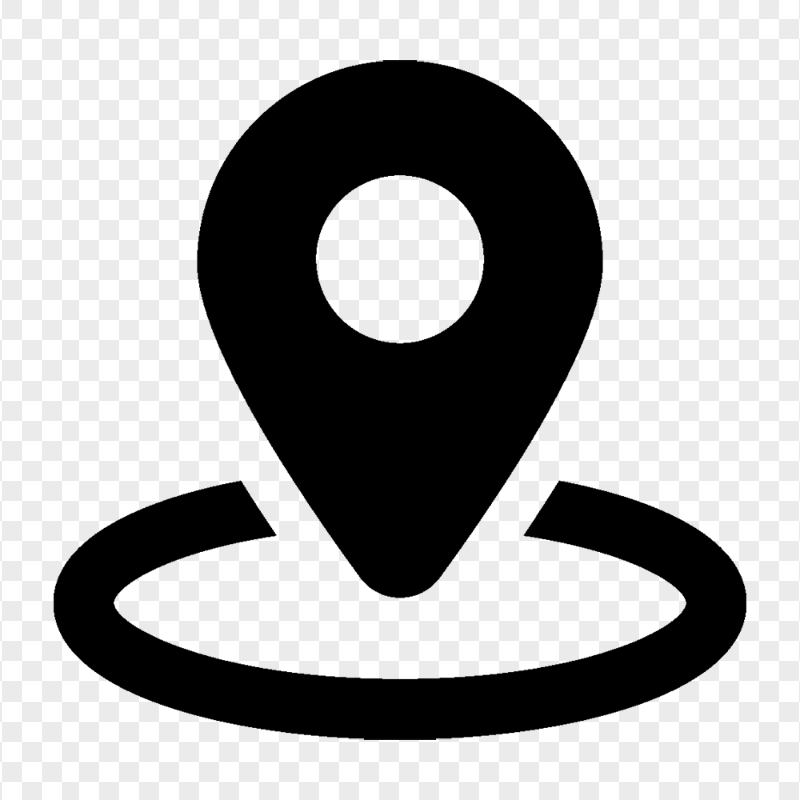
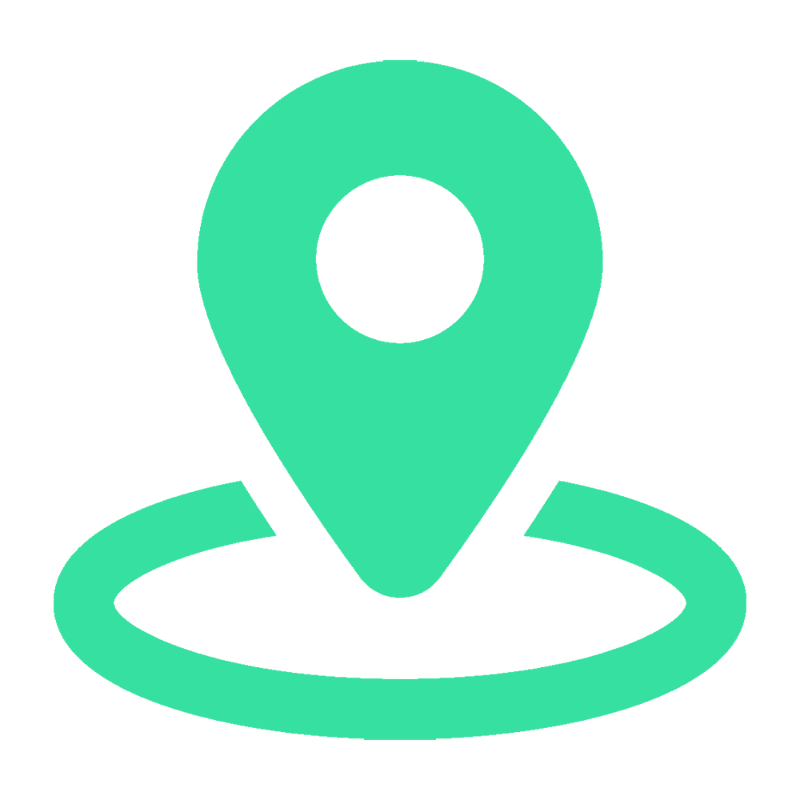
Use the supplied GPS symbol directly

diff --git a/index.html b/index.html
@@ -347,7 +347,7 @@ body.light .nearby-stop-picker{background:rgba(8,115,77,.06);border-color:rgba(8
 .detail-summary-tool:hover{background:rgba(108,140,255,.2);border-color:#9eb2ff;}
 .detail-summary-tool:active{transform:scale(.94);}
 .detail-summary-tool.gps{color:#36e0a0;border-color:rgba(54,224,160,.7);font-size:0;}
-.detail-summary-tool.gps::before{content:'';display:block;width:23px;height:23px;background:currentColor;-webkit-mask:url('./assets/gps-location.png') center/contain no-repeat;mask:url('./assets/gps-location.png') center/contain no-repeat;}
+.detail-summary-tool.gps::before{content:'';display:block;width:23px;height:23px;background:url('./assets/gps-location.png') center/contain no-repeat;}
 .detail-summary-tool.refresh{color:#ffd34e;border-color:rgba(255,211,78,.78);font-size:29px;font-weight:800;}
 .detail-summary-tool.refresh:hover{background:rgba(255,211,78,.16);border-color:#ffe48a;}
 .detail-summary-tool:disabled{opacity:.55;cursor:wait;}
